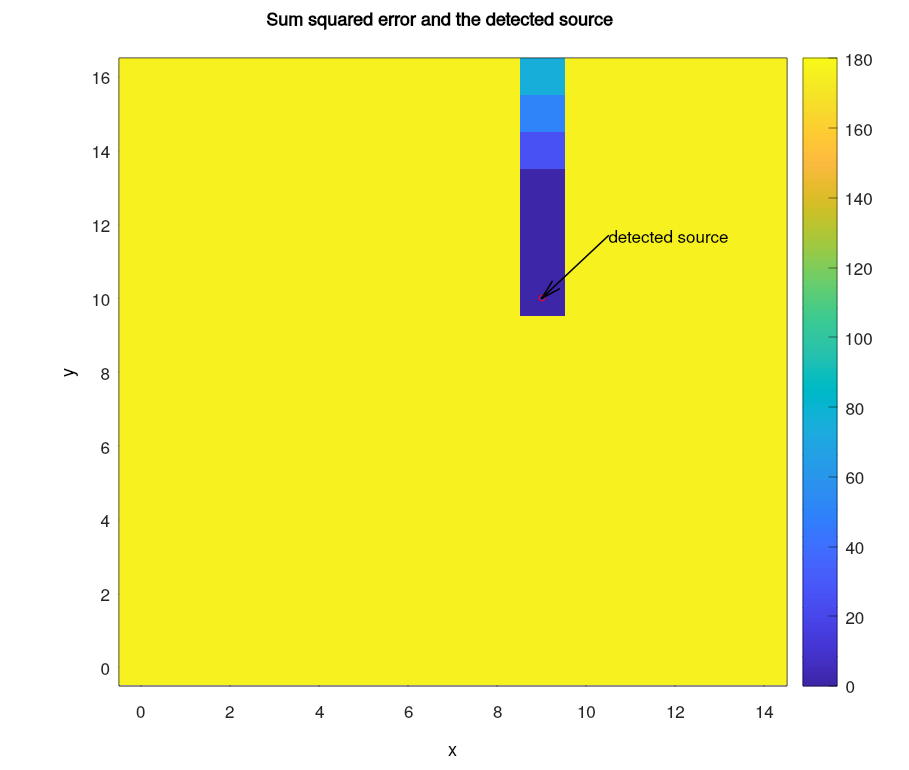
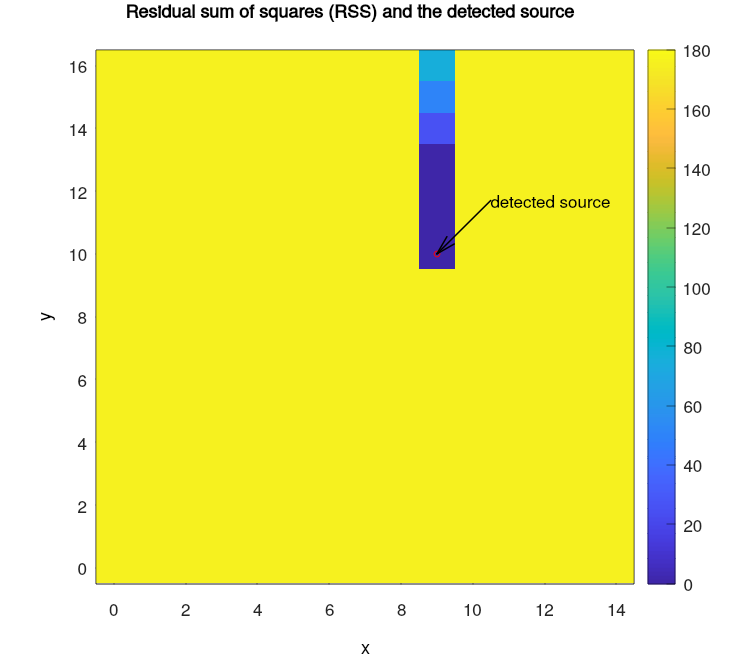
README complete
Some other minor modifications to make the code and examples consistent
with README.

diff --git a/main.cpp b/main.cpp
@@ -91,7 +91,7 @@ int main(int argc, char **argv) {
         std::min(X.y + 0.1 * A.shape[1], 0.95 * A.shape[1]),
         (double)X.x, (double)X.y, "detected source"
     );
-    title("Sum squared error and the detected source");
+    title("Residual sum of squares (RSS) and the detected source");
     show();
 
     // Exit

diff --git a/README.md b/README.md
@@ -41,7 +41,10 @@ The parameters are as follows:
 
 ## Implemented Methods
 
-Currently the only method implemented is suitable for the case of a static point source of particles: $$ X_{xyt} = \begin{cases} c \end{cases} $$ if $` t \geq T,\ x= x_s,\ y= y_s `$, $` X_{xyt} = 0 `$ otherwise, where
+Currently the only method implemented is suitable for the case of a static point source of particles:
+$$X_{xyt} = c \text{ if } t \geq T,\ x= x_s,\ y= y_s,$$
+$$X_{xyt} = 0 \text{ otherwise},$$
+where
 
 * $` c `$ &mdash; source intensity,
 * $` T `$ &mdash; emission start time,
@@ -61,4 +64,32 @@ If not NULL, the parameter `extra` shall be a pointer to a 2d-array of size $` (
 
 ## Build
 
+The project has the following dependencies:
+
+* [`cnpy`](https://github.com/rogersce/cnpy),
+* [`Matplot++`](https://github.com/alandefreitas/matplotplusplus).
+
+To build the project, one can use the following command
+
+    make
+
+which builds both the command-line interface to the solver and the command-line test cases. To build these two parts separately, use
+
+    make main
+    make tests
+
 ## Run
+
+To apply the `STATIC_SOURCE_MIN_MSE` solver to the data from a command line, use the command
+
+    ./main <path_to_tensor_A_npy> <path_to_tensor_n_csv>
+
+where `<path_to_tensor_A_npy>` is a path to a npy-file with the tensor $` A `$, `<path_to_tensor_n_csv>` is a path to a csv-file with the tensor $` n `$. The command-line tool prints the results to the standard output and shows them in a figure.
+
+To run the test cases, use the command
+
+    ./tests
+
+## Examples
+
+In the folder `examples`, several examples are provided. Each subfolder contains a file `README` with an example description, files `A.npy` and `n.csv` with the input tensors, and a file `results.png` with an output figure.
